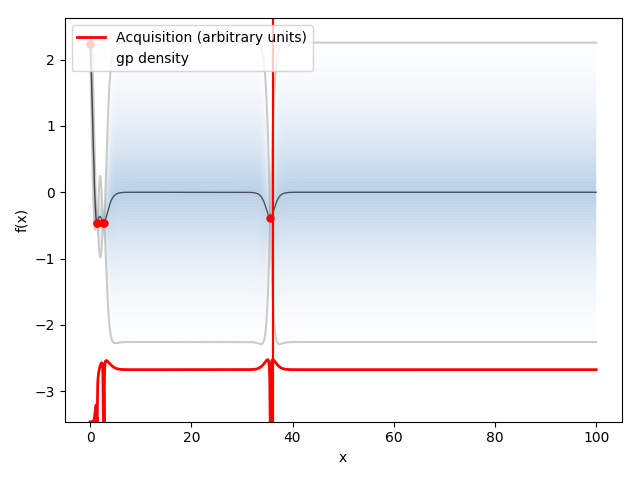
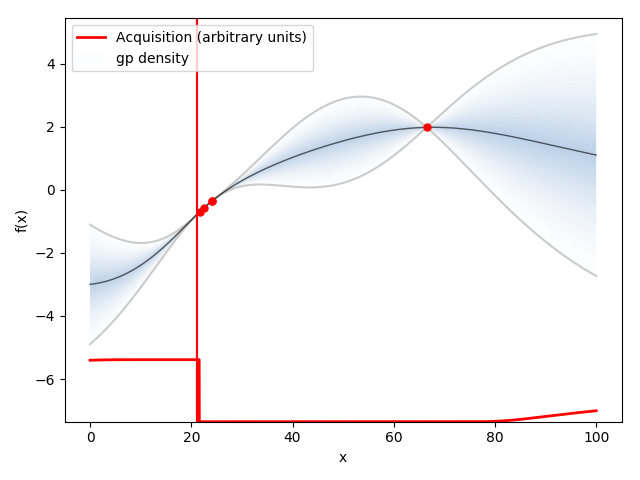
Plotting every iteration works. But fails to plot convergence

diff --git a/lib/BayesOpt.py b/lib/BayesOpt.py
@@ -11,7 +11,7 @@ def optimize(p0, data, model_func, lower_bound=None, upper_bound=None,
              verbose=0, flush_delay=0.5, epsilon=1e-3,
              gtol=1e-5, multinom=True, maxiter=1000, full_output=False,
              func_args=[], func_kwargs={}, fixed_params=None, ll_scale=1,
-             output_file=None, output_dir=None):
+             output_file=None, output_dir=None, plot_every=None):
 
     # passing all parameters to objective function, because gpyopt can't do it itself
     def f_obj_wrapped(x):
@@ -34,30 +34,43 @@ def optimize(p0, data, model_func, lower_bound=None, upper_bound=None,
     else:
         bounds = [{'domain': (l, u)} for l, u, p in zip(lower_bound, upper_bound, fixed_params) if p is None]
 
-    myProblem = GPyOpt.methods.BayesianOptimization(f_obj_wrapped,
-                                                    X=np.atleast_2d(p0),
-                                                    domain=bounds,
-                                                    acquisition_type='MPI',
-                                                    verbosity=True,
-                                                    maximize=False,
-                                                    num_cores=24
-                                                    )
-
-    myProblem.run_optimization(maxiter, verbosity=True)
-
     out_dir_path = Path('out') / output_dir
     plots_dir = out_dir_path / "plots"
+    acquisition_dir = plots_dir / "acquisitions"
     reports_dir = out_dir_path / "reports"
 
     plots_dir.mkdir(parents=True, exist_ok=True)
+    acquisition_dir.mkdir(parents=True, exist_ok=True)
     reports_dir.mkdir(parents=True, exist_ok=True)
 
-    myProblem.plot_acquisition((plots_dir / "acquisition.png").as_posix())
-    myProblem.plot_convergence((plots_dir / "convergence.png").as_posix())
-    myProblem.save_evaluations((reports_dir / "evals.tsv").as_posix())
-    myProblem.save_report((reports_dir / "report.txt").as_posix())
+    # Running optimization in a loop. Plot acquisition graph every
+    # `plot_every` iteration
+    X_step = np.atleast_2d(p0)
+    for current_iter in range(maxiter):
+        opt = GPyOpt.methods.BayesianOptimization(f_obj_wrapped,
+                                                  X=X_step,
+                                                  domain=bounds,
+                                                  acquisition_type='MPI',
+                                                  verbosity=True,
+                                                  maximize=False,
+                                                  num_cores=8
+                                                  )
 
-    xopt = BayesInference._project_params_up(myProblem.x_opt, fixed_params)
+        x_next = opt.suggest_next_locations()
+        X_step = np.vstack((X_step, x_next))
+
+        if plot_every is not None:
+            if (current_iter % plot_every == 0):
+                opt.plot_acquisition(
+                    (acquisition_dir / 'acquisition_{0:04d}'.format(current_iter)).as_posix()
+                    )
+
+    opt.plot_acquisition((plots_dir / "acquisition.png").as_posix())
+    opt.plot_convergence((plots_dir / "convergence.png").as_posix())
+    opt.save_evaluations((reports_dir / "evals.tsv").as_posix())
+    opt.save_report((reports_dir / "report.txt").as_posix())
+
+    xopt = BayesInference._project_params_up(opt.x_opt, fixed_params)
    
     # comment this is fmin_bfgs is not needed
     xopt = moments.Inference.optimize(xopt, data, model_func,

diff --git a/three_pop_bayes_moments.py b/three_pop_bayes_moments.py
@@ -31,7 +31,8 @@ popt = BayesOpt.optimize(p0, data, func,
                          verbose=1, # print to stdin every k-th line
                          maxiter=5, # for both gpyopt and moments.optimize
                          fixed_params=popt1,
-                         output_dir='fixed1')
+                         output_dir='fixed1',
+                         plot_every=1)
 print(popt)
 
 print('Finshed optimization **************************************************')
